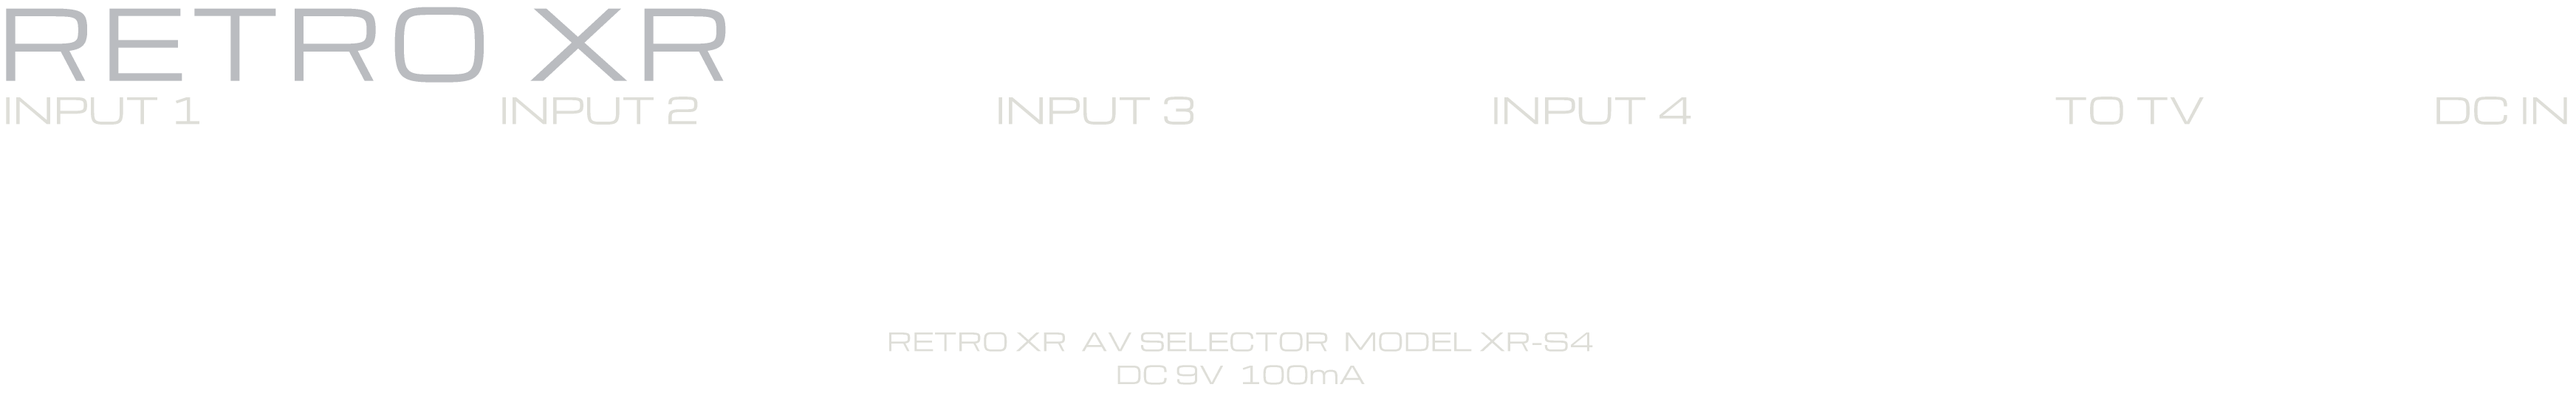
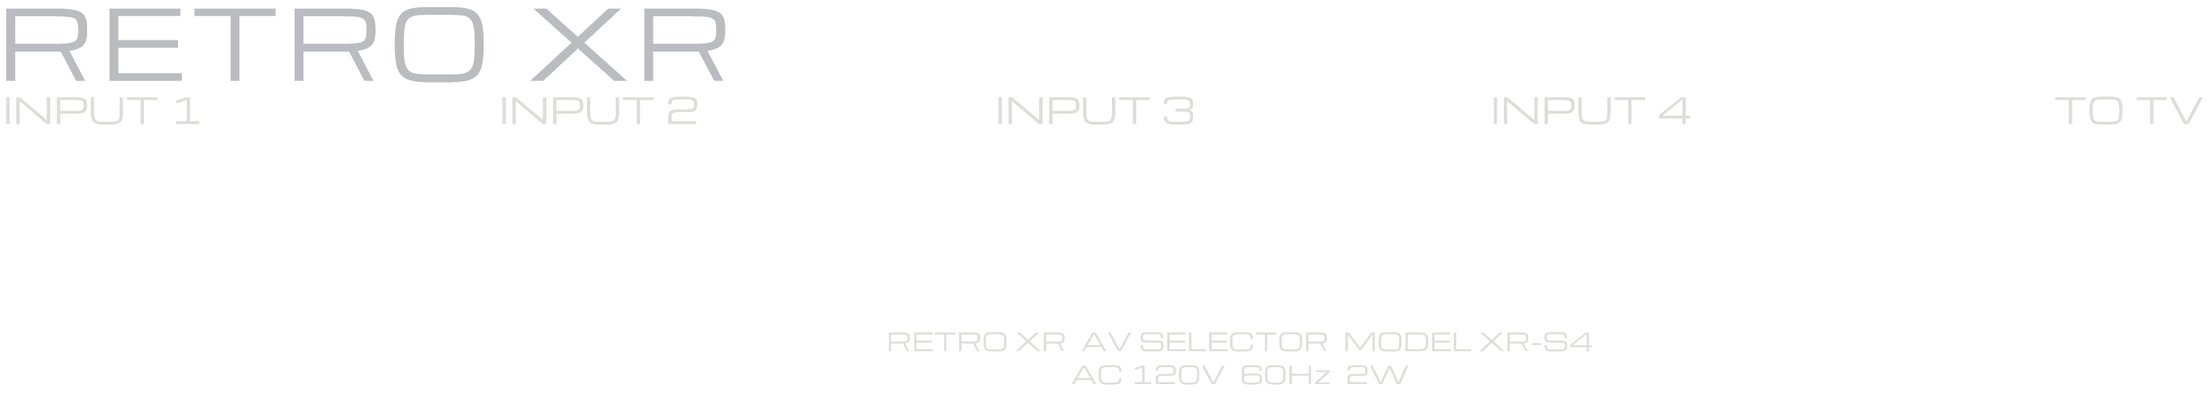
feat(av-switch): its own mains cord, like the decks, in place of the DC IN and 9 V adapter
The model (retroxr-models 5d22d445a) drops the DC IN for applkit's strain relief and a
PowerCordExit low past TO TV; the switch now takes its cord from ApplianceMains.hook_up as
the decks do, with Show Power Cord on the System tab (set_mains_cord_hidden). The DC port,
the PowerProfiles av_switch row and the retroxr_av_adapter brick are gone; a room saved
with that adapter drops it on load (ScenePersistence.RETIRED_AV_ADAPTER, committed with
60308d93). The supply still lights the labels only; the slide routes passively. The Debug
tab shows the mains cord and the outlet it is in.

av_switch_tests 99/99: the cord loose is dark, the cord in a live outlet lights the labels
and pulling it darkens them, the old adapter is dropped on load. Making the switch ignore
its cord fails five of them. av_switch_probe --cord renders it on a strip.

diff --git a/CLAUDE.md b/CLAUDE.md
@@ -222,7 +222,7 @@ can kill the process (extension is `-fno-exceptions`, no sandbox).
 | 2a-4p | `four-player-adapters.md` | **NES Four Score, NES Satellite, the Famicom's Hori 4 Players Adaptor and the PlayStation Multitap** (`FourPlayerAdapter` base; spawned from the NES / Famicom cards). **The Satellite** is two objects: the receiver IS its own two-plug block in the NES's ports, the transmitter pairs with the nearest seated one and routes as the Four Score, and the INFRARED is a gate on input, not routing (`filter_port_input`: powered by its push button, six C cells in its bottom bay, 1-15 ft, 60 x 30 degree beam, clear line of sight; otherwise released pads); four-player when socket 3 or 4 is filled, CTLR/GUN, off after 7 minutes unused. **The PlayStation Multitap** (`PsMultitap`): one connector fills a port AND the card slot over it (`ControllerPlug.covers_card_slot`; refused over a card), slot A is that console slot (B-D read by no core), pcsx_rearmed's option is pinned from which ports hold a tap (`ForcedCoreOptions.ps_multitap`), and a tap in port 1 MOVES the console's port 2 to libretro port 4 -- **the PS2 Multitap (SCPH-10090, `Ps2Multitap`, a subclass: a ribbed box, A/B and C/D on opposite faces) does the same on pcee2 and RetroXR's LRPS2 v7+, which share pcee2's `pcsx2_multitap` key and layout (the fork used to force both taps off); a tap in the OTHER console is socket A alone (`PsMultitap._active`)** (`SystemPorts.set_socket_port`: quiet, no netplay plug events; `cabinet_port_of` looks by plug first so saves keep the socket). The Four Score's lead is ONE block of two plugs that fills both NES ports (`ControllerPlug.socket_span` 2, port 1 only, at the NES's own pitch); the Hori's is a 15-pin plug in the Famicom's front ACCESSORY connector (`SystemPorts.build_accessory_port`, libretro port 4, saved as `ACCESSORY_SLOT` 24). **The adapter decides what its ports are to the core** (`own_port_device`, asked before the pad on every announce path): fceumm's plain joypad is its "Auto", so ports 2 and 3 are its named "Gamepad" with or without a pad, or players 3 and 4 work only for games in its own list. No core here emulates Hori's own 4P protocol: its sockets 3 and 4 reach nothing. TURBO B/A are LATCHING push buttons (the board's six-pin self-locking switches), a port input filter applied before `netplay_route`. **A port the room has nothing on is told EMPTY at a core start** (`SystemPorts.UNWIRED_PORTS`, nes 2-3, famicom 2-4): left at "Auto", fceumm plugs in a Four Score / Famicom adapter by itself for games in its own lists. `four_player_tests`; `Tools/input/four_score_core_probe` (real fceumm, test ROM, legs `4p`/`2p`/`none`/`famicom`, all PASS); `four_score_game_probe` (Bomberman II (USA): BATTLE shows P1-P3 and P3 moves at 4, refused at 2 and with no unit, 2026-11-02); `four_player_render_probe` (windowed). A four-player game (NES and PS1), Mesen/Nestopia/Beetle runs, headset, Quest and a session OWED. |
 | 2a-ss | `super-scope.md` | **The Super Scope is three objects: the cordless scope (`SuperScope`, a `LightGun` with NO cord), its receiver (`SuperScopeReceiver`, the thing in the console) and its sight.** The receiver's plug is announced by NAME and STRICTLY (`strict_device_names`, `SystemPorts.core_device_id(..., strict)`): snes9x lists `SuperScope` (260) on its second port only, so a receiver in socket 1 is told NONE, as nothing on the console reads it there; a plug does not copy the flag, so `strict_names_of` asks the plug's controller. The scope pairs with the nearest seated receiver and the INFRARED is a gate on what it sends (switch OFF, cells, beam, range, line of sight -> released buttons and the aim off the screen), never on the pairing. **snes9x's turbo is a TOGGLE on each AUX_B press, the hardware's a switch**: the scope claims AUX_B from the hand and sends one press whenever the switch and the core's believed state (meta on the CONSOLE) part; a savestate load is not re-read (logged). bsnes reads a Super Scope only as a touchscreen pointer: snes9x only. One hand (a second-hand grab breaks LightGun's toggle-hold). Sight on either side's clips, seeded on a fresh scope only. `super_scope_tests`, `Tools/input/super_scope_device_probe` (real snes9x, legs `scope`/`pad`/`port0`, all PASS), `Tools/models/super_scope_render_probe` (windowed). A real game, turbo in a game, headset, Quest and a session OWED. |
 | 2b | `bedroom-probe.md` | `Tools/models/bedroom_probe.tscn` — do NOT hand-roll another; it forces ceiling light 0.6 on purpose. |
-| 2c | `av-suite.md` | `av_tests`. Pulling a plug needs every RcaPort shut AND the plug frozen; with phosphor on, the oracle is `_crt_source_tex`. **Headphone jacks** (`PhonesOut`, a 3.5 mm TRS OUT on handhelds and sets) cut the host's speaker once their lead reaches a sink; the **RETRO XR headphones** (`Headphones`, a `CompositeCable` whose captive plug sits in the headset's own IN jack) are one: the host's L/R voices at the cups, dry, `LEVEL` 0.7, `get_audio_unit_size()` 0.12 m; worn is placement only (`headphones_tests`). **Combination sets**: a cabinet's `VcrSeat`/`DvdSeat` builds that deck INTO the set (`TvDecks`) on the composite input after its phono rows (no new `Source` value), saved on the TV record and named on the wire as the set's id + `$sub` path. `combo_tv_tests`, `combo_tv_probe`. **The AV switch** (`AvSwitch`, four composite inputs, one TO TV) is a pass-through of several sockets (`av_through_map`, AvGraph "Several sockets through"): its slide routes with or without power, its labels light only with its DC supply, and its menu has a Debug tab (`av_switch_tests`). |
+| 2c | `av-suite.md` | `av_tests`. Pulling a plug needs every RcaPort shut AND the plug frozen; with phosphor on, the oracle is `_crt_source_tex`. **Headphone jacks** (`PhonesOut`, a 3.5 mm TRS OUT on handhelds and sets) cut the host's speaker once their lead reaches a sink; the **RETRO XR headphones** (`Headphones`, a `CompositeCable` whose captive plug sits in the headset's own IN jack) are one: the host's L/R voices at the cups, dry, `LEVEL` 0.7, `get_audio_unit_size()` 0.12 m; worn is placement only (`headphones_tests`). **Combination sets**: a cabinet's `VcrSeat`/`DvdSeat` builds that deck INTO the set (`TvDecks`) on the composite input after its phono rows (no new `Source` value), saved on the TV record and named on the wire as the set's id + `$sub` path. `combo_tv_tests`, `combo_tv_probe`. **The AV switch** (`AvSwitch`, four composite inputs, one TO TV) is a pass-through of several sockets (`av_through_map`, AvGraph "Several sockets through"): its slide routes with or without power, its labels light only with its own mains cord plugged in, and its menu has a Debug tab (`av_switch_tests`). |
 | 2d | `bios-boot.md` | `BiosBoot` table provenance. **Never loop cores in one process.** `.info` `supports_no_game` is useless; the usual mechanism is empty MEDIA. The survey writes the real `core_options/` and restores it. DS/DSi home screen: `ds_boot_probe`; melondsds no-content, melonds a zero-byte `.nds`, desmume card-only; `also_needs` is all-of, `retire_files` moves a core's poison leftovers aside; probe a REAL data root too (saved `/notfound` firmware path, `wfcsettings.bin`). |
 | 2e | `gb-link.md` | **Every handheld lead has its OWN connector** (the `connector` on `LinkPlug`/`LinkPort`, set in the scene): GBC+the Printer `link_plug`, GBA/SP `agb_link_plug` (a Color's small plug ALSO fits a GBA, `Connectors.ALSO_FITS`; the GBA's keyed lead fits no Color), the original Game Boy alone the LARGE `dmg_link_plug` (a small lead reaches it through the DMG-14 `gb_link_adapter`, a cordless `LinkAdapter` whose back socket is a junction), and `gg_link_plug` / `ws_link_plug` / `comlynx_plug` / `ngp_link_plug`, each keyed on the machine scene AND the lead. They were one group once, so every lead seated in every handheld and only the wire objected, in a log line. `link_tests` walks the lead x socket matrix; the "find every link lead" sweeps use `LinkPlug.ANY_GROUP`, never a family. gambatte and mGBA share wire `gb-sio`. **The DMG-07 4 Player Adapter is a CORE (`dmg07`, RetroXR/dmg07-libretro) and a room object (`Dmg07Adapter`)**: four `gb-sio` ports, the adapter driving the clock; sockets for players 2-4 are `link_port` 1-3 and player 1's captive DMG-04 sits in a hidden port 0, so every Game Boy is on a wire of two (both drivers refuse more); powered while player 1's plug is in a Game Boy. Wave Race, Yoshi's Cookie and F-1 Race play four-player on gambatte AND mGBA (players joined through the room objects too; mGBA needs its MBC2 fix, v10, and the adapter's mixed pacing, v3: Pan Docs' ping for Yoshi's Cookie, GBE+'s transmission for Wave Race). Wario Blast is not an adapter game (its four players are the Super Game Boy's). Drive the two machines one at a time; Tetris DX is not a usable target. Game Gear: genesis_plus_gx on `gg-ext` (UART + parallel pins, byte-time delivery, no framing error with no cable); Faceball/MK/MK2 need the two machines powered on at different times. |
 | 2e-ir | `gb-link.md` | Game Boy Color infrared: both forks (gambatte `link_infrared.cpp`, mGBA `gb_ir_netlink.c`) put RP (`FF56`) on **link port 1**, `gbc-ir` (the cable is port 0) -- one message, an LED edge and the tick it lands on. **Every edge is moved by the SAME delay** (1024 ticks): Pokemon tells a 0 from a 1 by a 183 or 366 us gap. **A machine waits on ONE bus: the port is DEAF while its link cable carries a peer** (two buses line their machines up separately and would wait on each other for ever). Under netplay a port coming into view is a link change -- land it on an agreed frame with every core stopped or lockstep wedges -- and a pair in view is LOCKSTEP (`netplay.md`). Rode with it in mGBA: the savestate read `timaPeriod` as a word over its flags byte (a state saved with a timer IRQ pending wrecked the timer), and a load took both link drivers off the schedule, stopping the OTHER machine. The game's own greeting misses about one call in six (`--stress=N` counts them; `GBC_IR_STATS=1` makes a core say how many edges reached it late, which must be none). `gbc_ir_probe` / `gbc_ir_netplay_probe`: Gold or Silver, scratch saves from `Tools/gs_save.py`, one leg per process, `--nolink` / `--mutate` the controls. Released as gambatte v4 / mGBA v8 (`CoreSources`). gambatte's makefile tracks no headers: `make clean` after touching one. **In the room the link has no lead: an `IrPort` on the stand-in's `IrWindow` (beam along -Z) and `IrBus`, one static resolver as `ILinkBus` is.** Two machines link while EACH window is inside the other's beam -- never "the beams overlap", which two units side by side do for ever -- within 60 cm and 60° (80 cm / 70° to stay), held 0.3 s, the NEAREST partner only, switched on, not cabled, and with line of sight: the room and loose objects block, nothing HELD does (layer 17), which is what keeps a unit's own cartridge from hiding its partner. It answers as a lead does (`LinkPlug.ANY_GROUP`, a `cable` that is the pair's HEAD window), so netplay and focus mode find it unchanged. **Sight is each peer's own: in a session only the host decides (`NetplayLinkGate`, lifted out of `CompositeCable`), and a starting session gets no infrared join before frame zero (`NetplaySession.prepares`).** The window glows faintly only while BOTH cores are on the bus -- peer count, not sight -- so a core without the port stays dark; hence Gambatte is the `gbc` recommended core on desktop too. `ir_tests`; `gbc_ir_room_probe` writes saves and wants a scratch home holding `probe_home.txt`. Headset, Quest and a real two-peer session OWED. |

diff --git a/docs/dev/av-suite.md b/docs/dev/av-suite.md
@@ -577,17 +577,17 @@ MEASUREMENTS.md). Copy the three `avswitch_mobile*.glb` + `avswitch_contract.jso
   selected one is brightest (emission 2.4 against 0.55). Selected with nothing live is dark. Sources do not say when
   they are switched on, so the states are polled twice a second and a window is redrawn only when its state CHANGES.
   Each input has one material, set on the `AVS_LabelWindow` surface of every level's `Label<n>` (found by NAME).
-- **Power**: a 5.5 x 2.1 DC IN (`PowerInlet`, a `DcPort` from `barrel_dc_port.tscn`, on the model's `DcIn` with the
-  drawn jack hidden), PowerProfiles `av_switch` -> brick `retroxr_av_adapter` (a 9 V wall wart, size ESTIMATED). The
-  supply lights the labels ONLY. **The slide is passive and routes with or without it**, as a real mechanical
-  selector does; power simulation on with nothing in DC IN leaves every window dark and the picture going through.
-  Simulation off: always powered.
+- **Power**: its own mains cord, like the decks' (`ApplianceMains.hook_up` from the model's `PowerCordExit`, a strain
+  relief low past TO TV; Show Power Cord on the System tab puts it away, `set_mains_cord_hidden`). The supply lights
+  the labels ONLY. **The slide is passive and routes with or without it**, as a real mechanical selector does; power
+  simulation on with the cord loose leaves every window dark and the picture going through. Simulation off: always
+  powered. It had a DC IN and a 9 V adapter until 2026-11-07; a room saved with that adapter drops it on load.
 - **The menu** (`AvSwitchOptionsPanel` / `AvSwitchOptions2D`, VCROptionsPanel's arrangement, opened from the spawn
   menu's options on the object): Options (INPUT 1-4, each with what is on it and its label), **Debug**
   (`AvSwitch.debug_state()` into `DebugRows`, re-read once a second while it is the tab showing, and at once on any
   change the switch sees), and the Power rows. The Debug tab shows, per input, each jack's lead and its far end, the
   source machine and its path, whether it is sending and the label state; the slide; what TO TV is cabled to and what
-  it resolves to; DC IN, the supply and the simulation; the chain (fed by / feeds a switch, a refused loop); netplay
+  it resolves to; the mains cord and the outlet it is in, the supply and the simulation; the chain (fed by / feeds a switch, a refused loop); netplay
   role and whether the last slide move came off the wire (`NetworkManager.is_event_applying()`). The `[AvSwitch]`
   log lines (`describe_wiring()`, the label line) say the same things.
 

diff --git a/docs/dev/power.md b/docs/dev/power.md
@@ -151,11 +151,13 @@ because nothing in it could ever be plugged in. The Arcade Room and the bedroom 
   adapters, so the 32X's card offered a unit that will not start and not the MK-2103.
   It now lists the adapter each unit's PowerProfiles row names, plus any brick whose
   `fits` names the card. `power_tests spawn/`.
-- **The AV switch** (2026-11-07, `AvSwitch`, `av-suite.md`): a 5.5 x 2.1 DC IN on its model's `DcIn`
-  (PowerProfiles `av_switch`, brick `retroxr_av_adapter`, a 9 V wall wart whose size is ESTIMATED: no RetroXR-models
-  item). Its supply lights the four label windows and nothing else: the slide is mechanical and routes the picture
-  with no supply at all, so power simulation on with an empty DC IN is dark windows and a working switch. Built in
-  code like `ExpansionPower`'s jack (`AvSwitch._build_power`); the adapter is on the Power tab. `av_switch_tests power/`.
+- **The AV switch** (`AvSwitch`, `av-suite.md`): its own mains cord, as the decks have (`ApplianceMains.hook_up`
+  from the model's `PowerCordExit` strain relief, low at the back's left corner seen from behind; Show Power Cord on the
+  System tab). Its supply lights the four label windows and nothing else: the slide is mechanical and routes the
+  picture with no supply at all, so power simulation on with the cord loose is dark windows and a working switch.
+  Until 2026-11-07 it had a 5.5 x 2.1 DC IN and a 9 V wall wart (`retroxr_av_adapter`); both rows are gone, and a
+  room saved with that adapter drops it on load (`ScenePersistence.RETIRED_AV_ADAPTER`, logged `[AvSwitch]`).
+  `av_switch_tests power/`.
 - **Handhelds.** Cells in EVERY bay, or a live DC adapter where the hardware runs off one,
   or a built-in pack (GBA SP, DS, 3DS, PSP: treated as always charged, so the machine is
   always powered; their jack only charges, so it is not an inlet).
